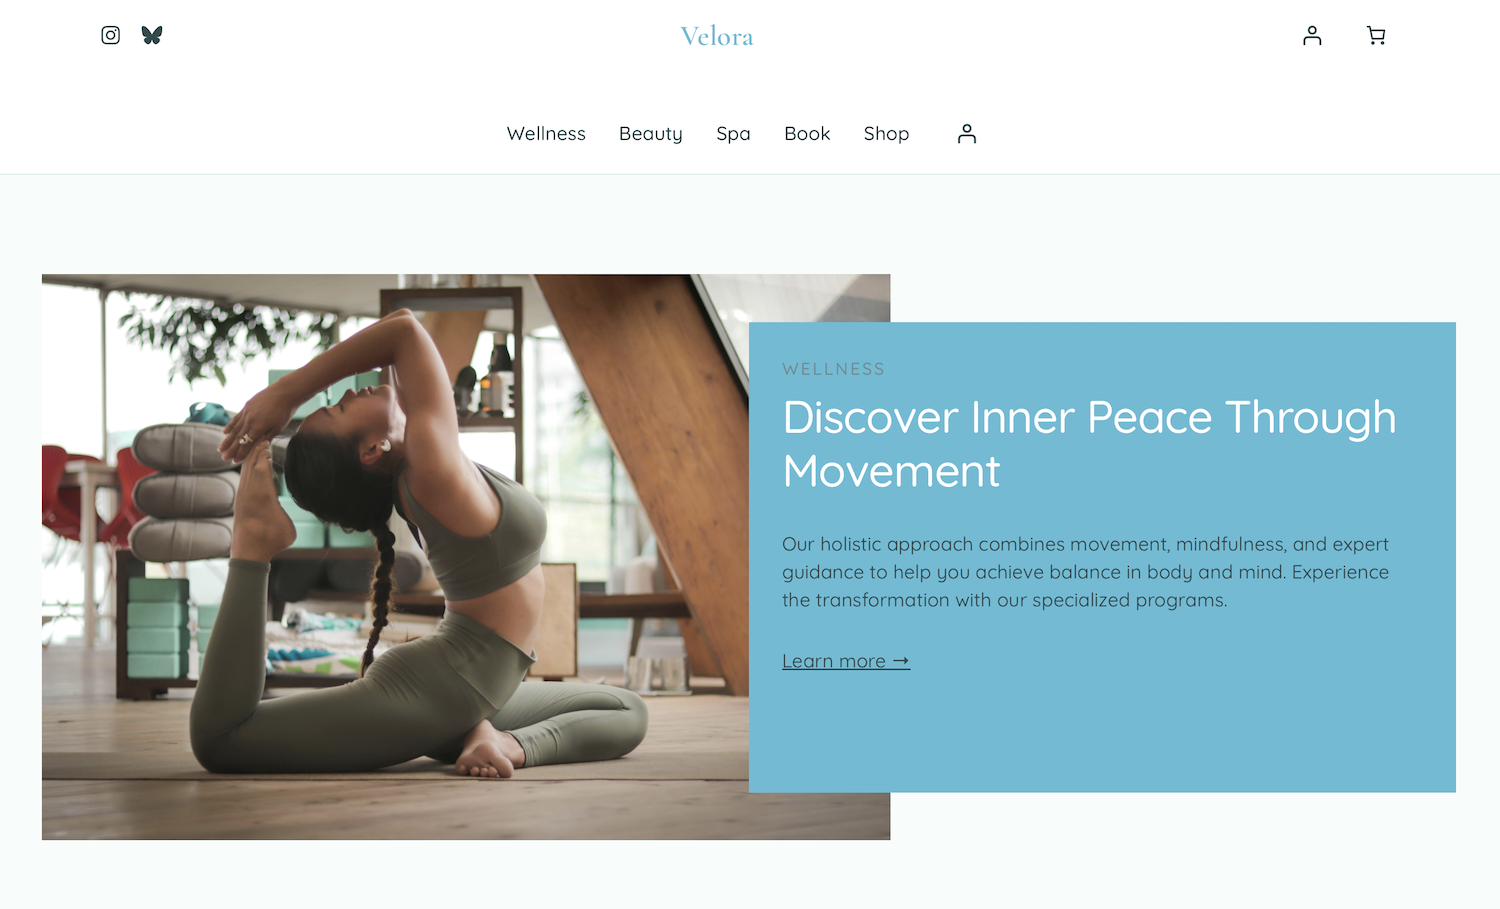
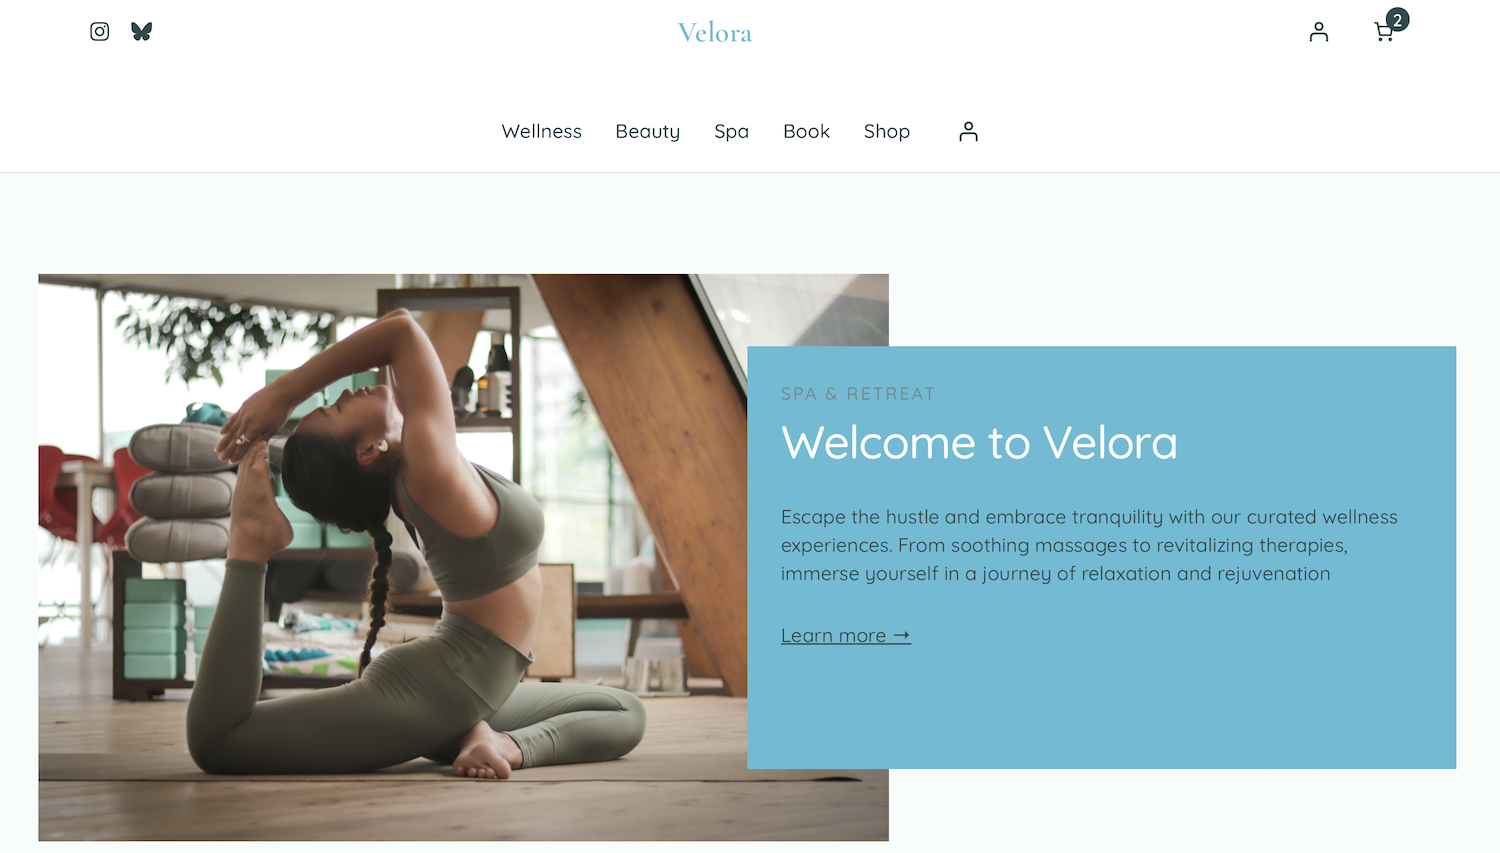
Screenshot Update

diff --git a/README.md b/README.md
@@ -91,6 +91,9 @@ The theme includes custom block patterns designed specifically for spa and welln
 - **Header with Top Bar and Centered Menu**: A header layout with social icons, utility bar and centered navigation
 - **Spa & Retreat Footer**: Footer with spa-focused navigation and social links
 
+#### Hero Patterns
+- **Spa Home Hero**: A hero section with an overlapping colored box on an image background, perfect for spa homepage introductions
+
 #### Content Patterns
 - **Four Column Wellness Posts**: Display wellness blog posts in a four-column layout
 - **Shop Overview Three Columns**: Display products in an elegant three-column layout
